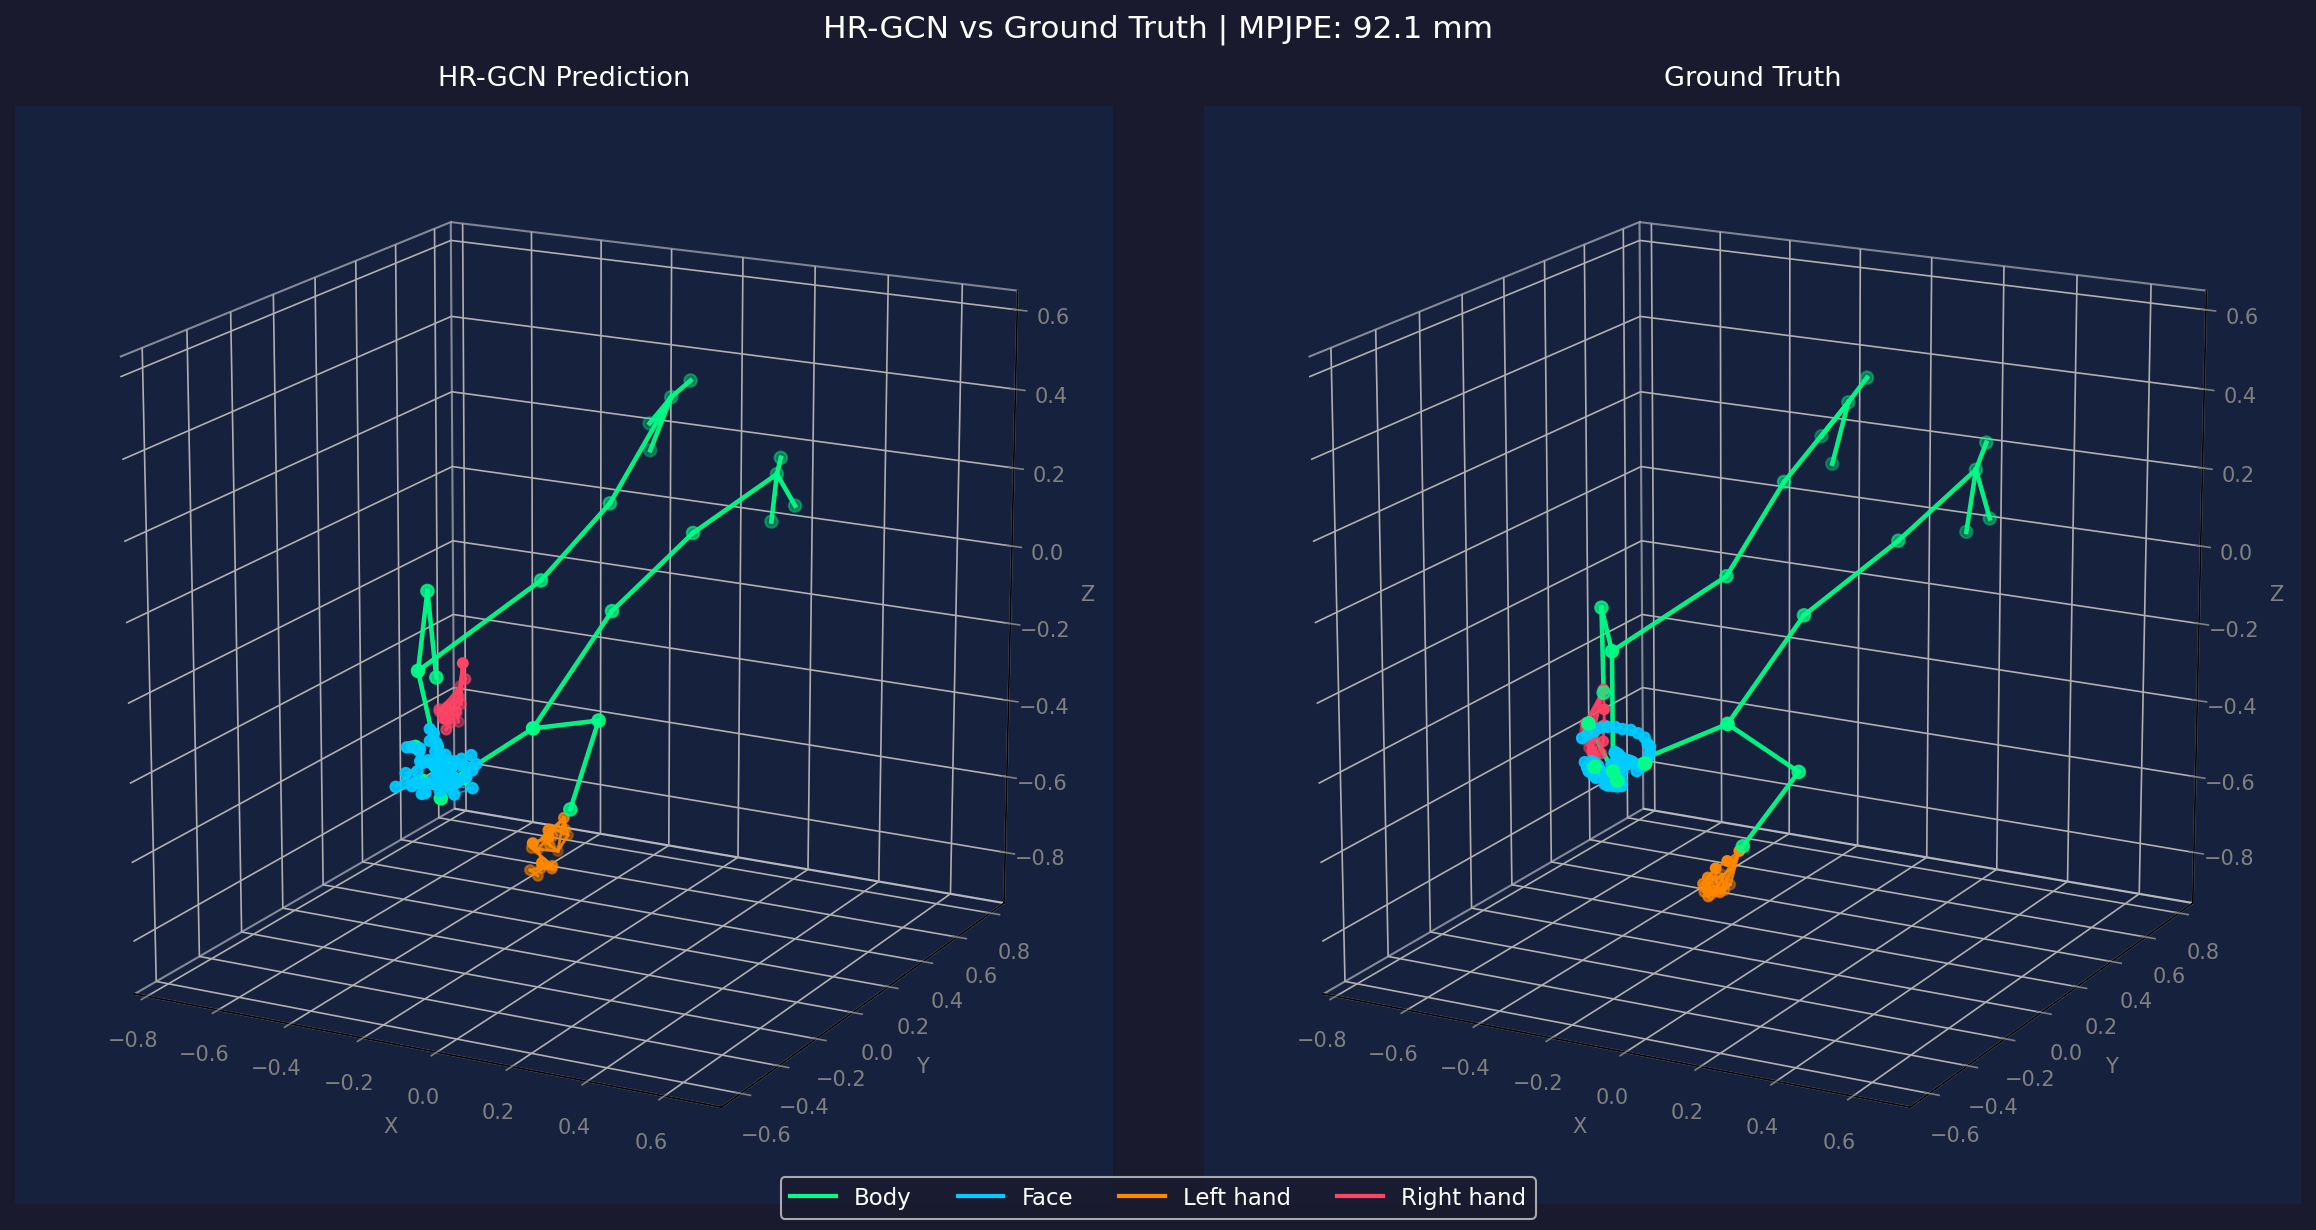
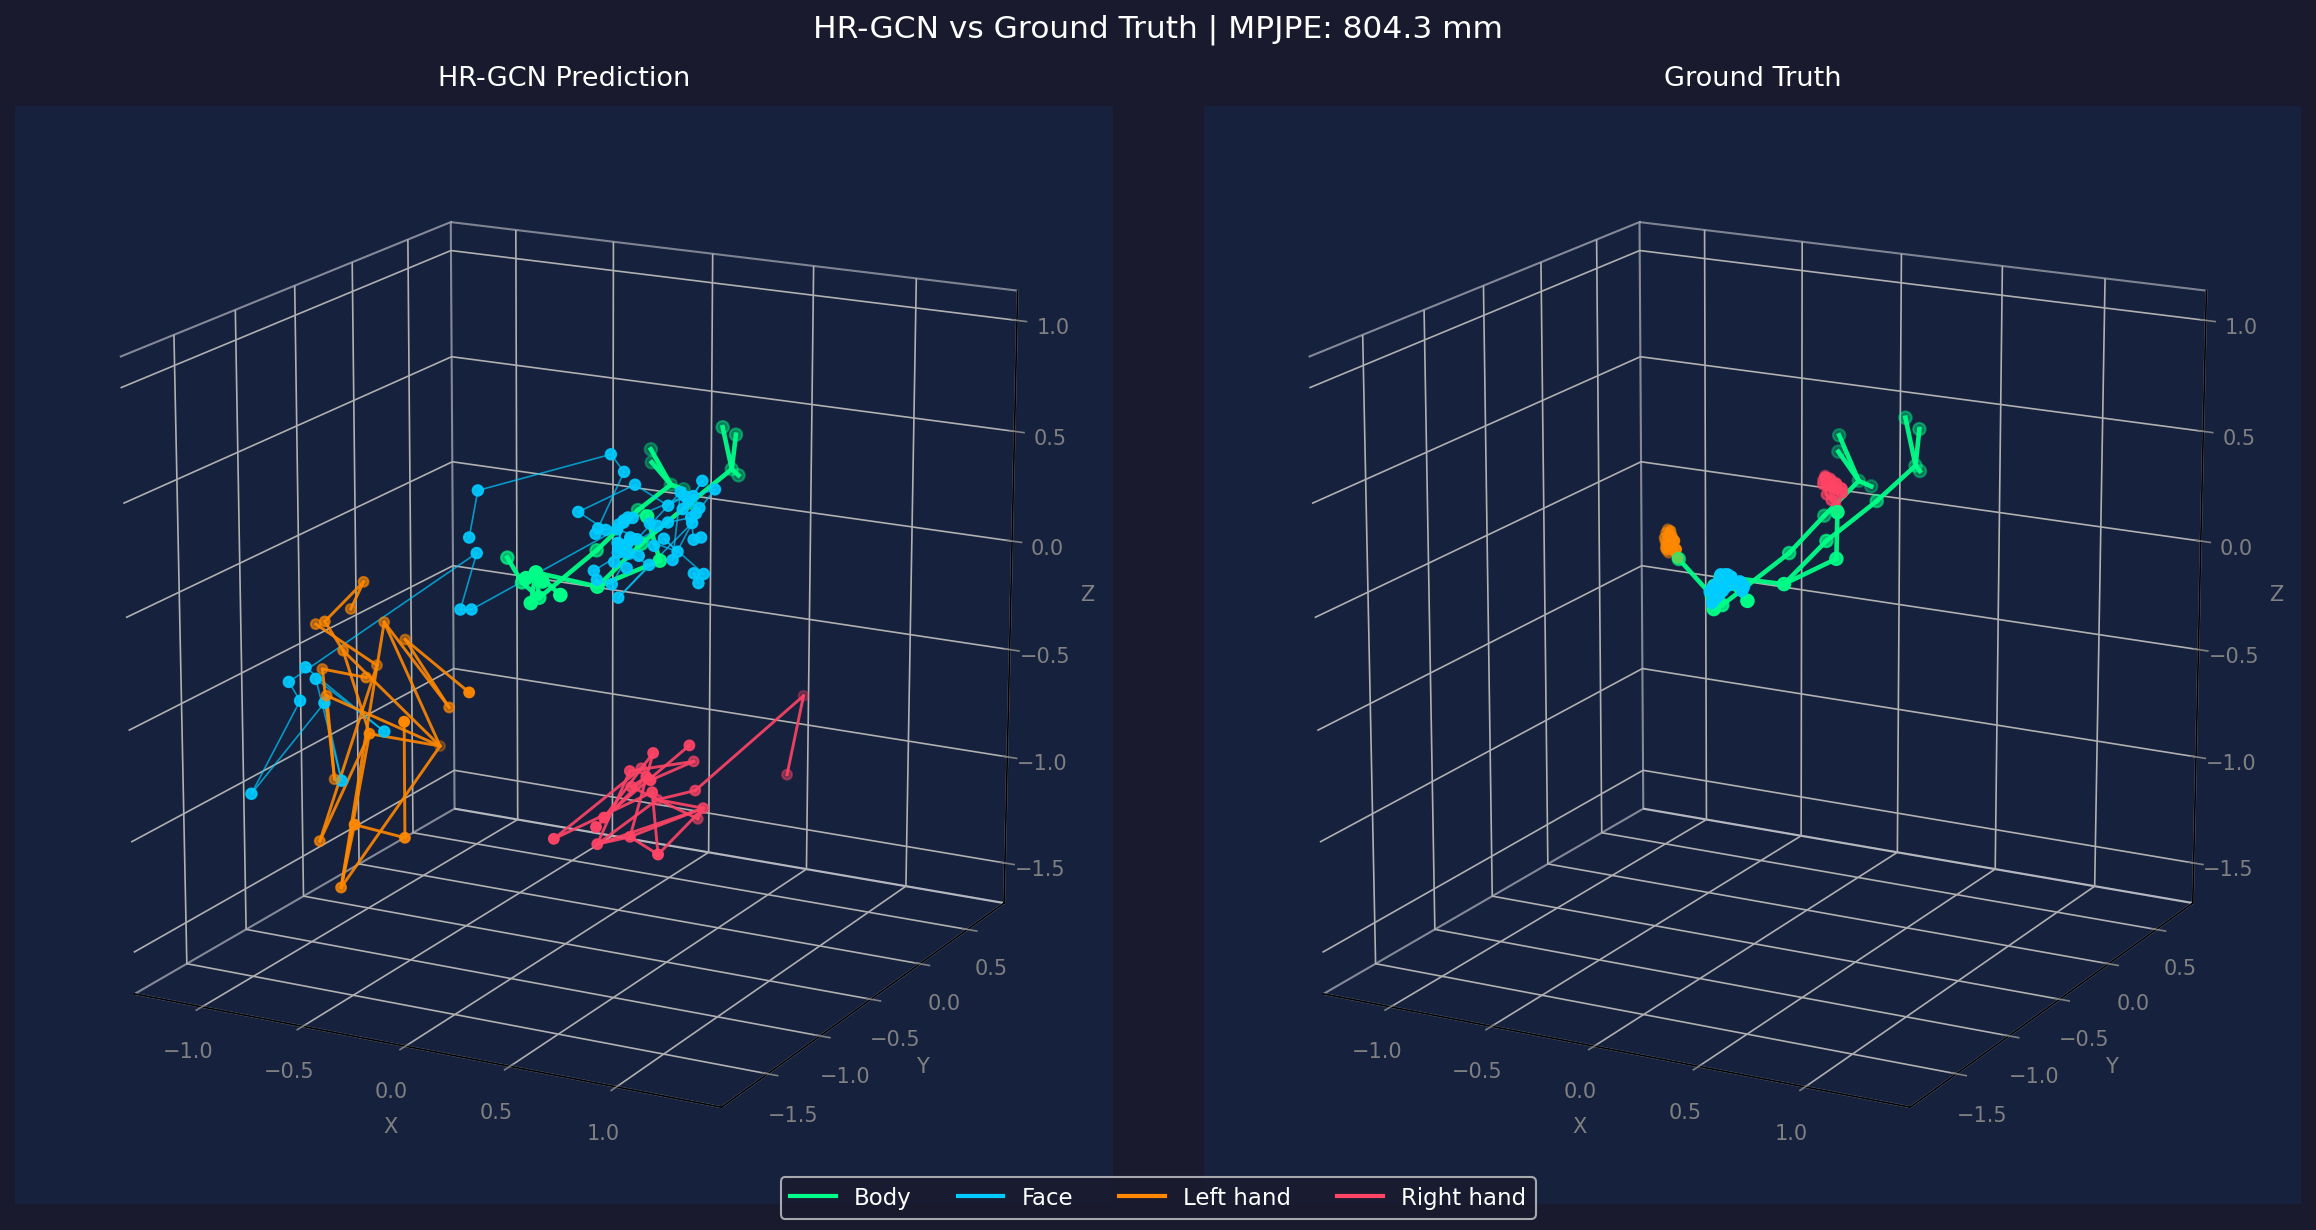
Add evaluation script and results for GCADA rehab checkpoints

diff --git a/evaluate_rehab.py b/evaluate_rehab.py
@@ -1,0 +1,243 @@
+"""
+Standalone evaluation for GCADA rehab checkpoints.
+
+Loads a fine-tuned rehab checkpoint, runs the model + clinical angle head
+on the test NPZ, and prints body MPJPE plus per-joint ROM MAE. Inference
+only — no training, no optimizer, no checkpoint writes.
+
+Example:
+    python evaluate_rehab.py \\
+        --checkpoint checkpoint_rehab_baseline_v8/ckpt_best_rehab.pth.tar \\
+        --cfg w32_adam_lr1e-3.yaml \\
+        --data_test data/uiprmd_test.npz
+"""
+from __future__ import print_function, absolute_import, division
+
+import argparse
+import csv
+import os.path as path
+import sys
+
+import numpy as np
+import torch
+import torch.nn as nn
+from torch.utils.data import DataLoader, TensorDataset
+
+from lib.config import cfg
+from common.graph_utils import adj_mx_from_skeleton
+from common.loss import mpjpe
+from utils.prepare_data_h3wb import Human3WBDataset
+
+import models.graph_hrnet_multi_branch as ghrmb
+import models.graph_resnet as GraphRes
+import models.graph_hrnet as ghr
+from models.graph_sh import GraphSH
+
+
+JOINT_NAMES_FULL = [
+    'Cervical Pitch', 'Trunk Flex',
+    'L Sho Flex',     'R Sho Flex',
+    'L Sho Abd',      'R Sho Abd',
+    'L Hip',          'R Hip',
+    'L Knee',         'R Knee',
+    'L Ankle',        'R Ankle',
+]
+
+
+def parse_args():
+    parser = argparse.ArgumentParser(description='Evaluate a rehab checkpoint')
+    parser.add_argument('--checkpoint', required=True, type=str,
+                        help='Path to ckpt_best_rehab.pth.tar')
+    parser.add_argument('--cfg', default='w32_adam_lr1e-3.yaml', type=str)
+    parser.add_argument('--gcn', default='dc_preagg', type=str)
+    parser.add_argument('--model', default=1, type=int)
+    parser.add_argument('--data_test', default='data/uiprmd_test.npz', type=str)
+    parser.add_argument('--batch_size', default=256, type=int)
+    parser.add_argument('--device', default='cuda', type=str,
+                        choices=['cuda', 'cpu'])
+    parser.add_argument('--num_workers', default=4, type=int)
+    parser.add_argument('--hid_dim', default=64, type=int)
+    parser.add_argument('--num_layers', default=4, type=int)
+    parser.add_argument('--save_csv', default='', type=str,
+                        help='Optional CSV output path')
+    return parser.parse_args()
+
+
+class UIRPMDDataset(TensorDataset):
+    def __init__(self, npz_path: str):
+        d = np.load(npz_path, allow_pickle=True)
+        poses_2d   = torch.from_numpy(d['poses_2d']).float()
+        poses_3d   = torch.from_numpy(d['poses_3d']).float()
+        rom_angles = torch.from_numpy(d['rom_angles']).float()
+        super().__init__(poses_2d, poses_3d, rom_angles)
+
+
+def build_backbone(args, cfg, adj, device):
+    p_dropout = None if 0.0 == 0.0 else 0.0
+    skeleton = Human3WBDataset('data/h3wb_train.npz',
+                               'data/h3wb_test.npz').skeleton()
+
+    if args.model == 1:
+        model = ghrmb.get_pose_net(cfg, True, adj, p_dropout, args.gcn,
+                                   skeleton.joints_group())
+    elif args.model == 2:
+        model = GraphRes.get_pose_net(True, adj, p_dropout, args.gcn, 50, True)
+    elif args.model == 3:
+        model = ghr.get_pose_net(cfg, True, adj, p_dropout, args.gcn,
+                                 skeleton.joints_group())
+    elif args.model == 4:
+        model = GraphSH(adj, args.hid_dim, skeleton.joints_group(),
+                        num_layers=args.num_layers, p_dropout=p_dropout,
+                        gcn_type=args.gcn)
+    else:
+        raise ValueError(f'Unknown model index: {args.model}')
+    return model.to(device)
+
+
+class _AngleHead(nn.Module):
+    """ClinicalAngleHead with a configurable output dim. Module name `net`
+    matches the saved checkpoints' state-dict prefix."""
+    def __init__(self, in_features: int, hidden: int, n_joints: int):
+        super().__init__()
+        self.net = nn.Sequential(
+            nn.Linear(in_features, hidden),
+            nn.ReLU(),
+            nn.Dropout(0.1),
+            nn.Linear(hidden, 64),
+            nn.ReLU(),
+            nn.Linear(64, n_joints),
+        )
+
+    def forward(self, x):
+        return self.net(x)
+
+
+def build_angle_head(in_features: int, hidden: int, n_joints: int):
+    return _AngleHead(in_features, hidden, n_joints)
+
+
+def detect_head_dims(angle_state):
+    """Recover (hidden, n_joints) from a checkpoint's angle_head state dict."""
+    hidden = angle_state['net.0.weight'].shape[0]
+    n_joints = angle_state['net.5.weight'].shape[0]
+    return hidden, n_joints
+
+
+def main():
+    args = parse_args()
+
+    if args.device == 'cuda' and not torch.cuda.is_available():
+        print('==> CUDA unavailable, falling back to CPU')
+        args.device = 'cpu'
+    device = torch.device('cuda:0' if args.device == 'cuda' else 'cpu')
+
+    if not path.isfile(args.checkpoint):
+        raise FileNotFoundError(f'Checkpoint not found: {args.checkpoint}')
+
+    ckpt = torch.load(args.checkpoint, map_location=device, weights_only=False)
+    epoch = ckpt.get('epoch', '?')
+    best_mae = ckpt.get('best_mae')
+    best_mae_str = f'{best_mae:.4f}' if isinstance(best_mae, (int, float)) else '?'
+    print(f'==> Loaded checkpoint: {args.checkpoint}')
+    print(f'    epoch={epoch}  best_mae(stored)={best_mae_str}°')
+
+    angle_state = ckpt.get('angle_head_state_dict')
+    if angle_state is None:
+        raise KeyError('Checkpoint missing angle_head_state_dict')
+    hidden, n_joints = detect_head_dims(angle_state)
+    if n_joints not in (6, 12):
+        print(f'    WARNING: unexpected angle-head output dim {n_joints}')
+    print(f'    angle head: hidden={hidden}  n_joints={n_joints}')
+
+    cfg.merge_from_file(args.cfg)
+
+    skeleton = Human3WBDataset('data/h3wb_train.npz',
+                               'data/h3wb_test.npz').skeleton()
+    adj = adj_mx_from_skeleton(skeleton).to(device)
+
+    print('==> Building model...')
+    model = build_backbone(args, cfg, adj, device)
+    angle_head = build_angle_head(in_features=69, hidden=hidden,
+                                  n_joints=n_joints).to(device)
+
+    model.load_state_dict(ckpt['state_dict'])
+    angle_head.load_state_dict(angle_state)
+
+    print(f'==> Loading test data: {args.data_test}')
+    test_set = UIRPMDDataset(args.data_test)
+    test_loader = DataLoader(test_set, batch_size=args.batch_size,
+                             shuffle=False, num_workers=args.num_workers,
+                             pin_memory=(args.device == 'cuda'))
+    print(f'    Frames: {len(test_set)}')
+
+    model.eval()
+    angle_head.eval()
+
+    body_mpjpe_sum = 0.0
+    rom_mae_sum = np.zeros(n_joints, dtype=np.float64)
+    n_total = 0
+
+    with torch.no_grad():
+        for inputs_2d, targets_3d, gt_angles in test_loader:
+            inputs_2d  = inputs_2d.to(device)
+            targets_3d = targets_3d.to(device)
+            gt_angles  = gt_angles.to(device)
+            B = inputs_2d.shape[0]
+
+            body_3d, _, _, _ = model(inputs_2d)
+            B_h, J_h, _ = body_3d.shape
+            pred_angles = angle_head(body_3d.reshape(B_h, -1))
+
+            body_mpjpe_sum += mpjpe(body_3d, targets_3d[:, :23]).item() * 1000 * B
+
+            gt_used = gt_angles[:, :n_joints]
+            mae = (pred_angles - gt_used).abs().mean(dim=0).cpu().numpy()
+            rom_mae_sum += mae * B
+            n_total += B
+
+    body_mpjpe_mm = body_mpjpe_sum / n_total
+    rom_mae = rom_mae_sum / n_total
+    mean_mae = float(rom_mae.mean())
+
+    joint_names = JOINT_NAMES_FULL[:n_joints]
+    worst_idx = int(np.argmax(rom_mae))
+
+    bar = '=' * 50
+    sep = '-' * 34
+    print('\n' + bar)
+    print(f'Checkpoint: {args.checkpoint}')
+    print(f'Test frames: {n_total}')
+    print(bar)
+    print(f'\nBody MPJPE:   {body_mpjpe_mm:.2f} mm')
+    print(f'Mean ROM MAE: {mean_mae:.4f}°\n')
+    print(f'{"Joint":<20} | {"MAE (deg)":>10}')
+    print(sep)
+    for i, (name, mae_v) in enumerate(zip(joint_names, rom_mae)):
+        marker = ' *' if i == worst_idx else ''
+        print(f'{name:<20} | {mae_v:>10.2f}{marker}')
+    print(sep)
+    print(f'{"Mean":<20} | {mean_mae:>10.4f}')
+    print(bar)
+
+    if isinstance(best_mae, (int, float)):
+        delta = abs(best_mae - mean_mae)
+        if delta > 0.05:
+            print(f'\nNote: live MAE differs from stored best_mae by {delta:.4f}° '
+                  f'(stored {best_mae:.4f}, computed {mean_mae:.4f})')
+
+    if args.save_csv:
+        with open(args.save_csv, 'w', newline='') as f:
+            writer = csv.writer(f)
+            writer.writerow(['Joint', 'MAE_deg'])
+            for name, mae_v in zip(joint_names, rom_mae):
+                writer.writerow([name, f'{mae_v:.4f}'])
+            writer.writerow(['Mean', f'{mean_mae:.4f}'])
+            writer.writerow(['Body_MPJPE_mm', f'{body_mpjpe_mm:.2f}'])
+            writer.writerow(['Test_frames', n_total])
+            writer.writerow(['Checkpoint', args.checkpoint])
+            writer.writerow(['Epoch', epoch])
+        print(f'\nResults saved to: {args.save_csv}')
+
+
+if __name__ == '__main__':
+    main()
